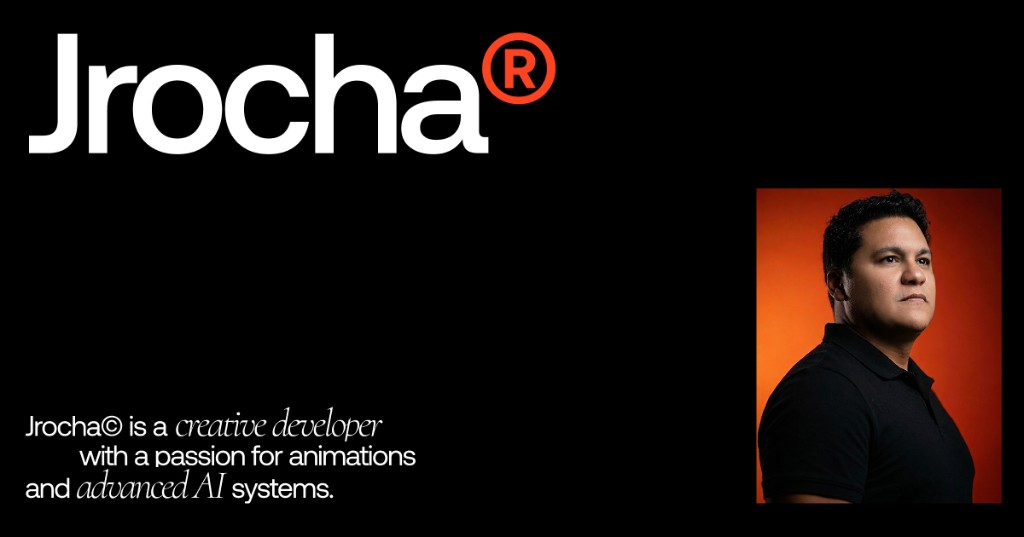
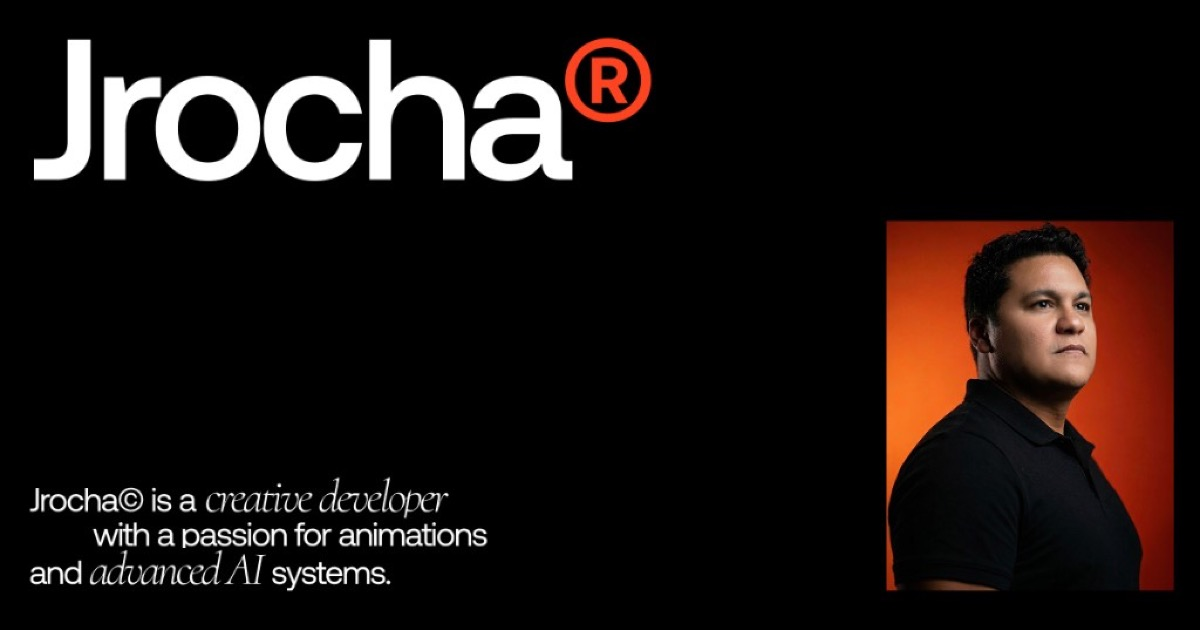
feat: improve SEO with profile links, OG image, and project schema
Wire real social and booking URLs, expand Person JSON-LD, resize the default OG image to 1200x630, and add CreativeWork structured data for published portfolio projects.

Changed region(s): [[0.0312, 0.7747, 0.4062, 0.9236]]

diff --git a/src/data/project-schema.ts b/src/data/project-schema.ts
@@ -1,0 +1,58 @@
+import type { CollectionEntry } from 'astro:content';
+
+function toAbsoluteUrl(path: string, site: string | URL): string {
+  return new URL(path, site).href;
+}
+
+function projectSlug(entry: CollectionEntry<'projects'>): string {
+  return entry.id.replace(/\.mdx?$/, '');
+}
+
+export function buildProjectSchema(
+  entries: CollectionEntry<'projects'>[],
+  site: string | URL,
+) {
+  const siteHref = typeof site === 'string' ? site : site.href;
+  const sorted = [...entries].sort((a, b) => a.data.order - b.data.order);
+
+  const creativeWorks = sorted.map((entry) => {
+    const slug = projectSlug(entry);
+    const { title, client, year, role, coverImage, description, tags, industries, url, caseStudyUrl } =
+      entry.data;
+    const projectUrl = url ?? caseStudyUrl;
+    const work: Record<string, unknown> = {
+      '@type': 'CreativeWork',
+      '@id': `${siteHref}#project-${slug}`,
+      name: title,
+      creator: { '@id': `${siteHref}#person` },
+      dateCreated: `${year}-01-01`,
+    };
+
+    if (description) work.description = description;
+    if (coverImage) work.image = toAbsoluteUrl(coverImage, site);
+    if (projectUrl && projectUrl !== '#') work.url = projectUrl;
+    if (client) {
+      work.about = {
+        '@type': 'Organization',
+        name: client,
+      };
+    }
+    if (tags.length > 0) work.keywords = tags.join(', ');
+    if (industries.length > 0) work.genre = industries;
+
+    return work;
+  });
+
+  const portfolioList = {
+    '@type': 'ItemList',
+    '@id': `${siteHref}#portfolio`,
+    name: 'Selected Work',
+    itemListElement: sorted.map((entry, index) => ({
+      '@type': 'ListItem',
+      position: index + 1,
+      item: { '@id': `${siteHref}#project-${projectSlug(entry)}` },
+    })),
+  };
+
+  return [...creativeWorks, portfolioList];
+}

diff --git a/src/data/profile.ts b/src/data/profile.ts
@@ -1,0 +1,22 @@
+export const profileLinks = {
+  cal: 'https://cal.com/jonathan541',
+  github: 'https://github.com/JonathanCarthagos',
+  instagram: 'https://www.instagram.com/cavalcantijonathan/',
+  linkedin: 'https://www.linkedin.com/in/jonathan-cavalcanti11/',
+  dribbble: 'https://dribbble.com/JonathanCavalcanti',
+  webflow: 'https://webflow.com/@jonathan-cavalcanti',
+} as const;
+
+export const profileSameAs = Object.values(profileLinks);
+
+export const profileKnowsAbout = [
+  'Webflow',
+  'Shopify',
+  'Astro',
+  'TypeScript',
+  'GSAP',
+  'Creative Development',
+  'Front-end Development',
+  'Motion Design',
+  'UI/UX Design',
+] as const;
